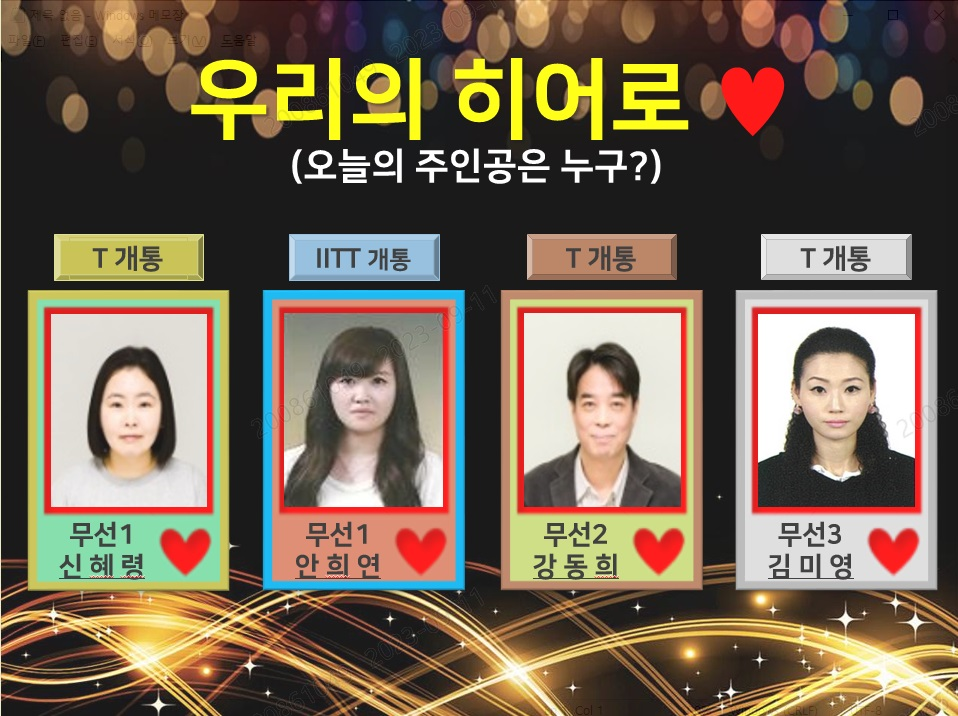
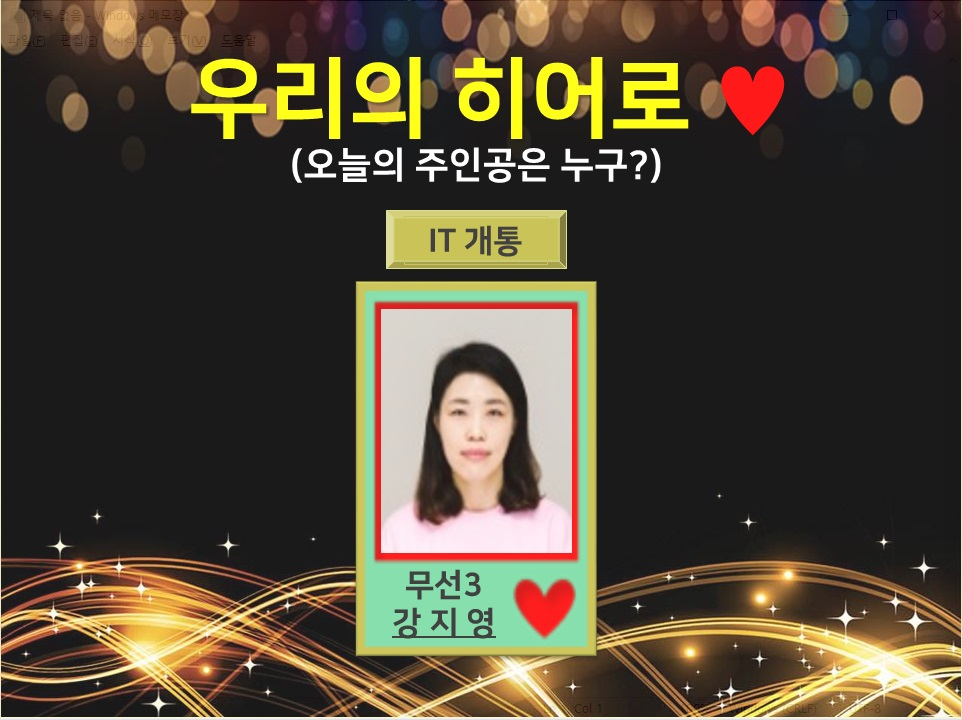
dd

diff --git a/html/board.html b/html/board.html
@@ -51,8 +51,7 @@
    <img class="worktime" src="../imgfolder/근무/세일즈 전광판_센터실적.jpg" >
    <img class="worktime" src="../imgfolder/근무/세일즈 전광판_팀실적.jpg" >
    <img class="worktime" src="../imgfolder/근무/세일즈 전광판_전일개통인원-1.jpg" >
-   <img class="worktime" src="../imgfolder/근무/세일즈 전광판_전일개통인원-2.jpg" >
-   <img class="worktime" src="../imgfolder/근무/세일즈 전광판_전일개통인원-3.jpg" >
+   
    
 
     
